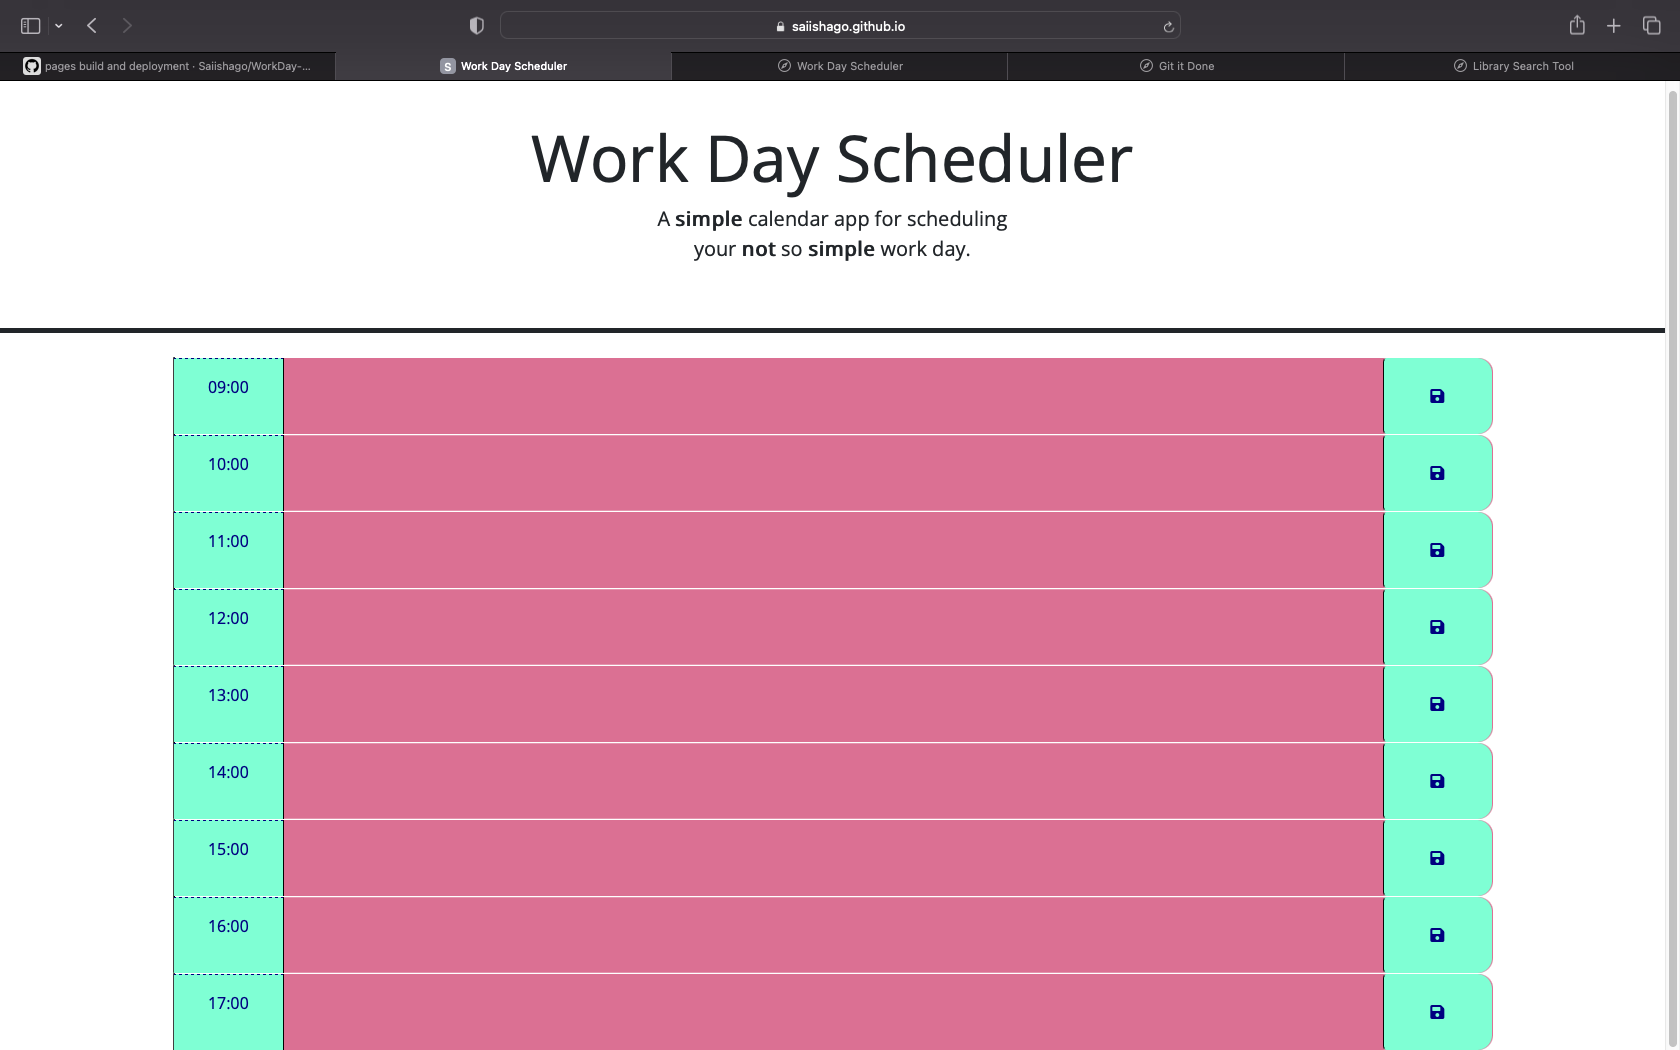
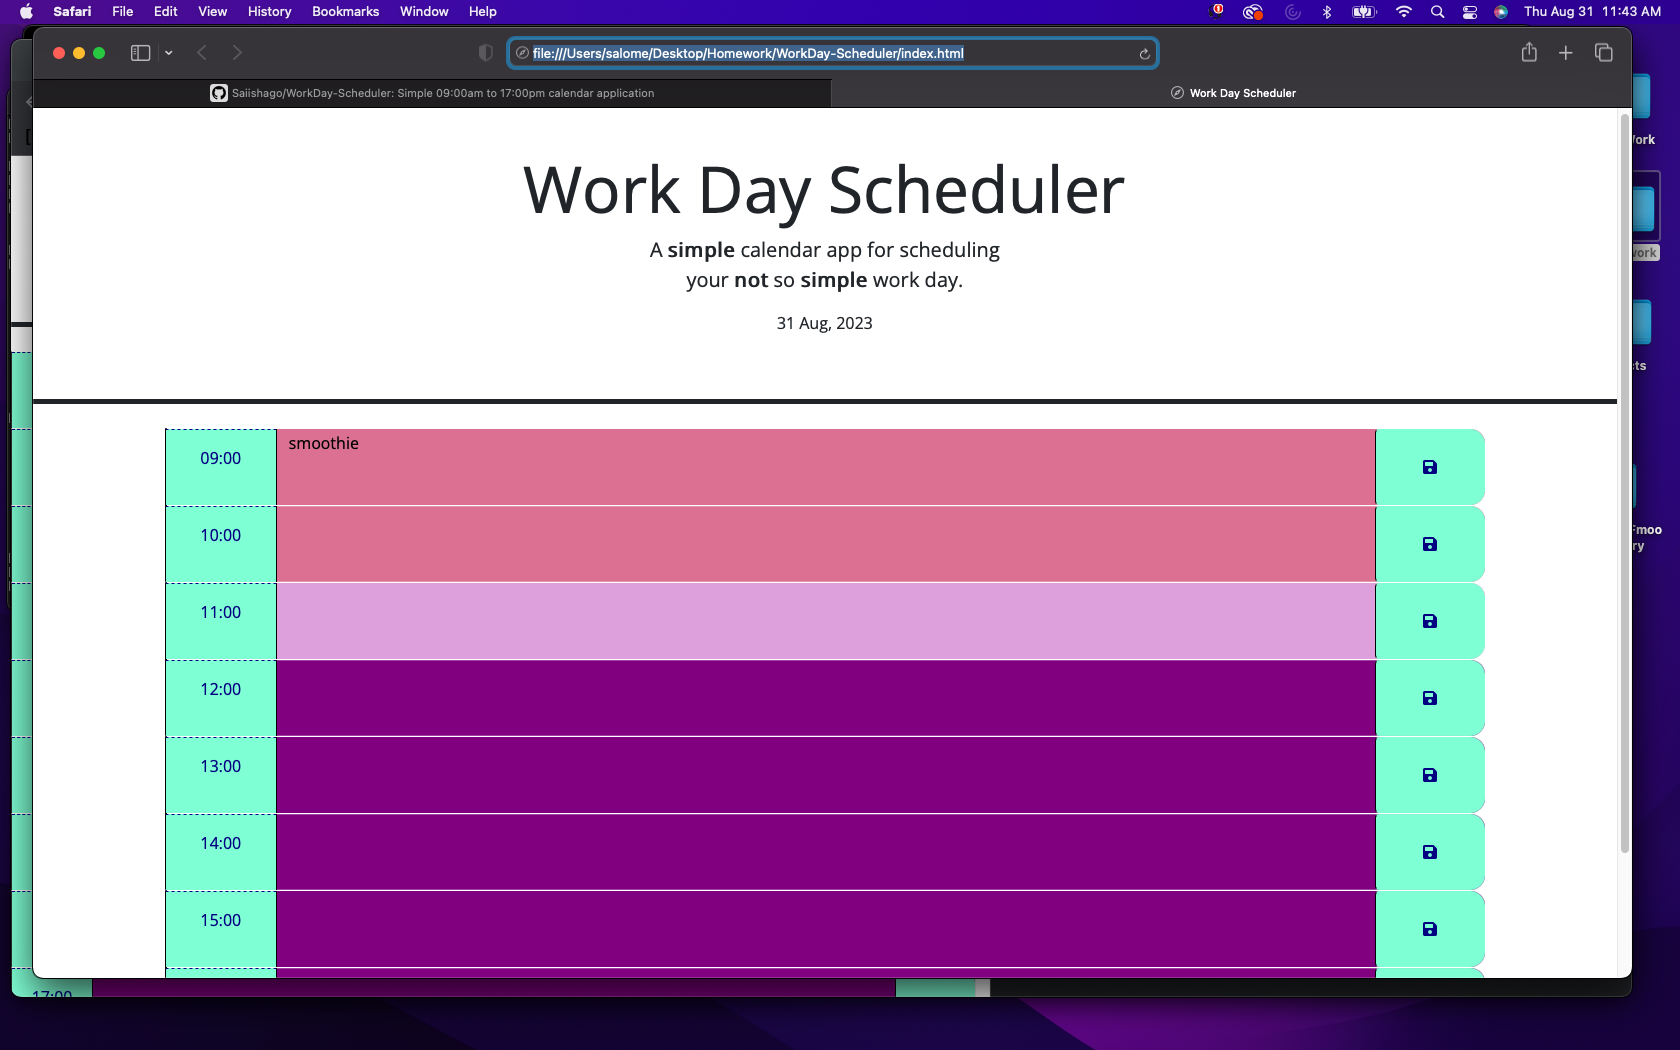
corrected README.md index.html and script.js files

diff --git a/script.js b/script.js
@@ -17,7 +17,8 @@ var savingBEl = $('#savingB');
 var lastDescriptionEl = $('#lastDescription');
 var savedBEl = $('#savedB');
 
-
+var today = dayjs();
+$('#today').text(today.format('D MMM, YYYY'));
 
 $(function() {
 
@@ -40,7 +41,7 @@ $(function() {
 
     $(document).ready(function() {
       const persistentText = $("#persistent-text");
-      const savedText = localStorage.getItem("savedText");
+      const savedText = localStorage.getItem("newText");
     
       if (savedText) {
         persistentText.text(savedText);
@@ -59,7 +60,7 @@ $(function() {
  
 
   
-   var savedText =localStorage.getItem('description');
+   var savedText =localStorage.getItem('hour-9');
    if (savedText) {
      $('#description').val(savedText);
    };
@@ -69,9 +70,10 @@ $(function() {
 
     localStorage.setItem('hour-9', newText);
     alert('Look at you being an adult!');
+
+    renderLastSaved();
    });
   
-   renderLastSaved();
   
    function displayMessage(type, message) {
   
@@ -80,6 +82,12 @@ $(function() {
    };
    function renderLastSaved() {
     var description = localStorage.getItem('hour-9');
+
+    $('#description').text('');
+    $('#saveBtn').on('click', function() {
+     
+    });
+ 
   
     if (!description) {
       return;
@@ -87,8 +95,8 @@ $(function() {
   
     descriptionEl.textContent = description;
    };
-  
 
+   
    $('#secondDescription').text('');
    $('#saveButton').on('click', function() {
 
@@ -103,9 +111,11 @@ $(function() {
     var newText = $('#secondDescription').val();
 
     localStorage.setItem('hour-10', newText);
-    alert("Let's do this!");
-   });
+    alert('Keep up the good work!');
 
+    renderLastSaved('hour-10');
+
+   });
    renderLastSaved();
 
    function displayMessage(type, message) {
@@ -141,9 +151,9 @@ $(function() {
 
    localStorage.setItem('hour-11', newText);
    alert('Come on, a little more to go!');
+   renderLastSaved();
    });
 
-   renderLastSaved();
 
    function displayMessage(type, message) {
  
@@ -179,6 +189,7 @@ $(function() {
 
    localStorage.setItem('hour-12', newText);
    alert('One more before lunch!');
+   renderLastSaved();
    });
 
    renderLastSaved();
@@ -217,6 +228,7 @@ $(function() {
 
    localStorage.setItem('hour-13', newText);
    alert('No this is the ONE more before lunch!');
+   renderLastSaved();
    });
 
    renderLastSaved();
@@ -255,6 +267,7 @@ $(function() {
 
    localStorage.setItem('hour-14', newText);
    alert('Keep pushing!');
+   renderLastSaved();
    });
 
    renderLastSaved();
@@ -293,6 +306,7 @@ $(function() {
 
    localStorage.setItem('hour-15', newText);
    alert('Thirty minutes left!');
+   renderLastSaved();
    });
 
    renderLastSaved();
@@ -331,6 +345,7 @@ $(function() {
 
    localStorage.setItem('hour-16', newText);
    alert('Two more thirty minutes!');
+   renderLastSaved();
    });
 
    renderLastSaved();
@@ -354,10 +369,11 @@ $(function() {
 
    $('#lastDescription').text('');
    $('#savedB').on('click', function() {
+
  
    var savedText =localStorage.getItem('');
    if (savedText) {
-$('#lastDescription').val(savedText);
+   $('#lastDescription').val(savedText);
    };
 
    $('#savedB').click(function() {
@@ -375,7 +391,7 @@ $('#lastDescription').val(savedText);
    lastDescriptionEl.textContent = message;
    lastDescriptionEl.attr("class", type);
    };
-   function renderLastSaved() {
+   function renderLastSaved() {    
    var lastDescription = localStorage.getItem('hour-17');
 
    if (!lastDescription) {
@@ -387,8 +403,7 @@ $('#lastDescription').val(savedText);
    });
 
   
-   var today = dayjs();
-   $('#currentDay').text(today.format('D MMM, YYYY'));
+   
    });
   });
 

diff --git a/index.html b/index.html
@@ -8,6 +8,11 @@
       rel="stylesheet"
       href="https://cdn.jsdelivr.net/npm/bootstrap@5.1.3/dist/css/bootstrap.min.css"
     />
+    <script
+    src="https://cdn.jsdelivr.net/npm/dayjs@1.11.3/dayjs.min.js"
+    integrity="sha256-iu/zLUB+QgISXBLCW/mcDi/rnf4m4uEDO0wauy76x7U="
+    crossorigin="anonymous"
+    ></script>
     <link
       rel="stylesheet"
       href="https://use.fontawesome.com/releases/v5.8.1/css/all.css"
@@ -26,7 +31,7 @@
     <header class="p-5 mb-4 border-5 border-bottom border-dark text-center">
       <h1 class="display-3">Work Day Scheduler</h1>
       <p class="lead">A <strong>simple</strong> calendar app for scheduling<br>your <strong>not</strong> so <strong>simple</strong> work day.</p>
-      <p id="currentDay" class="lead"></p>
+      <p id="today" class="answer"></p>
     </header>
     <div class="container-lg ">
       <div id="hour-9" class="row time-block" >
